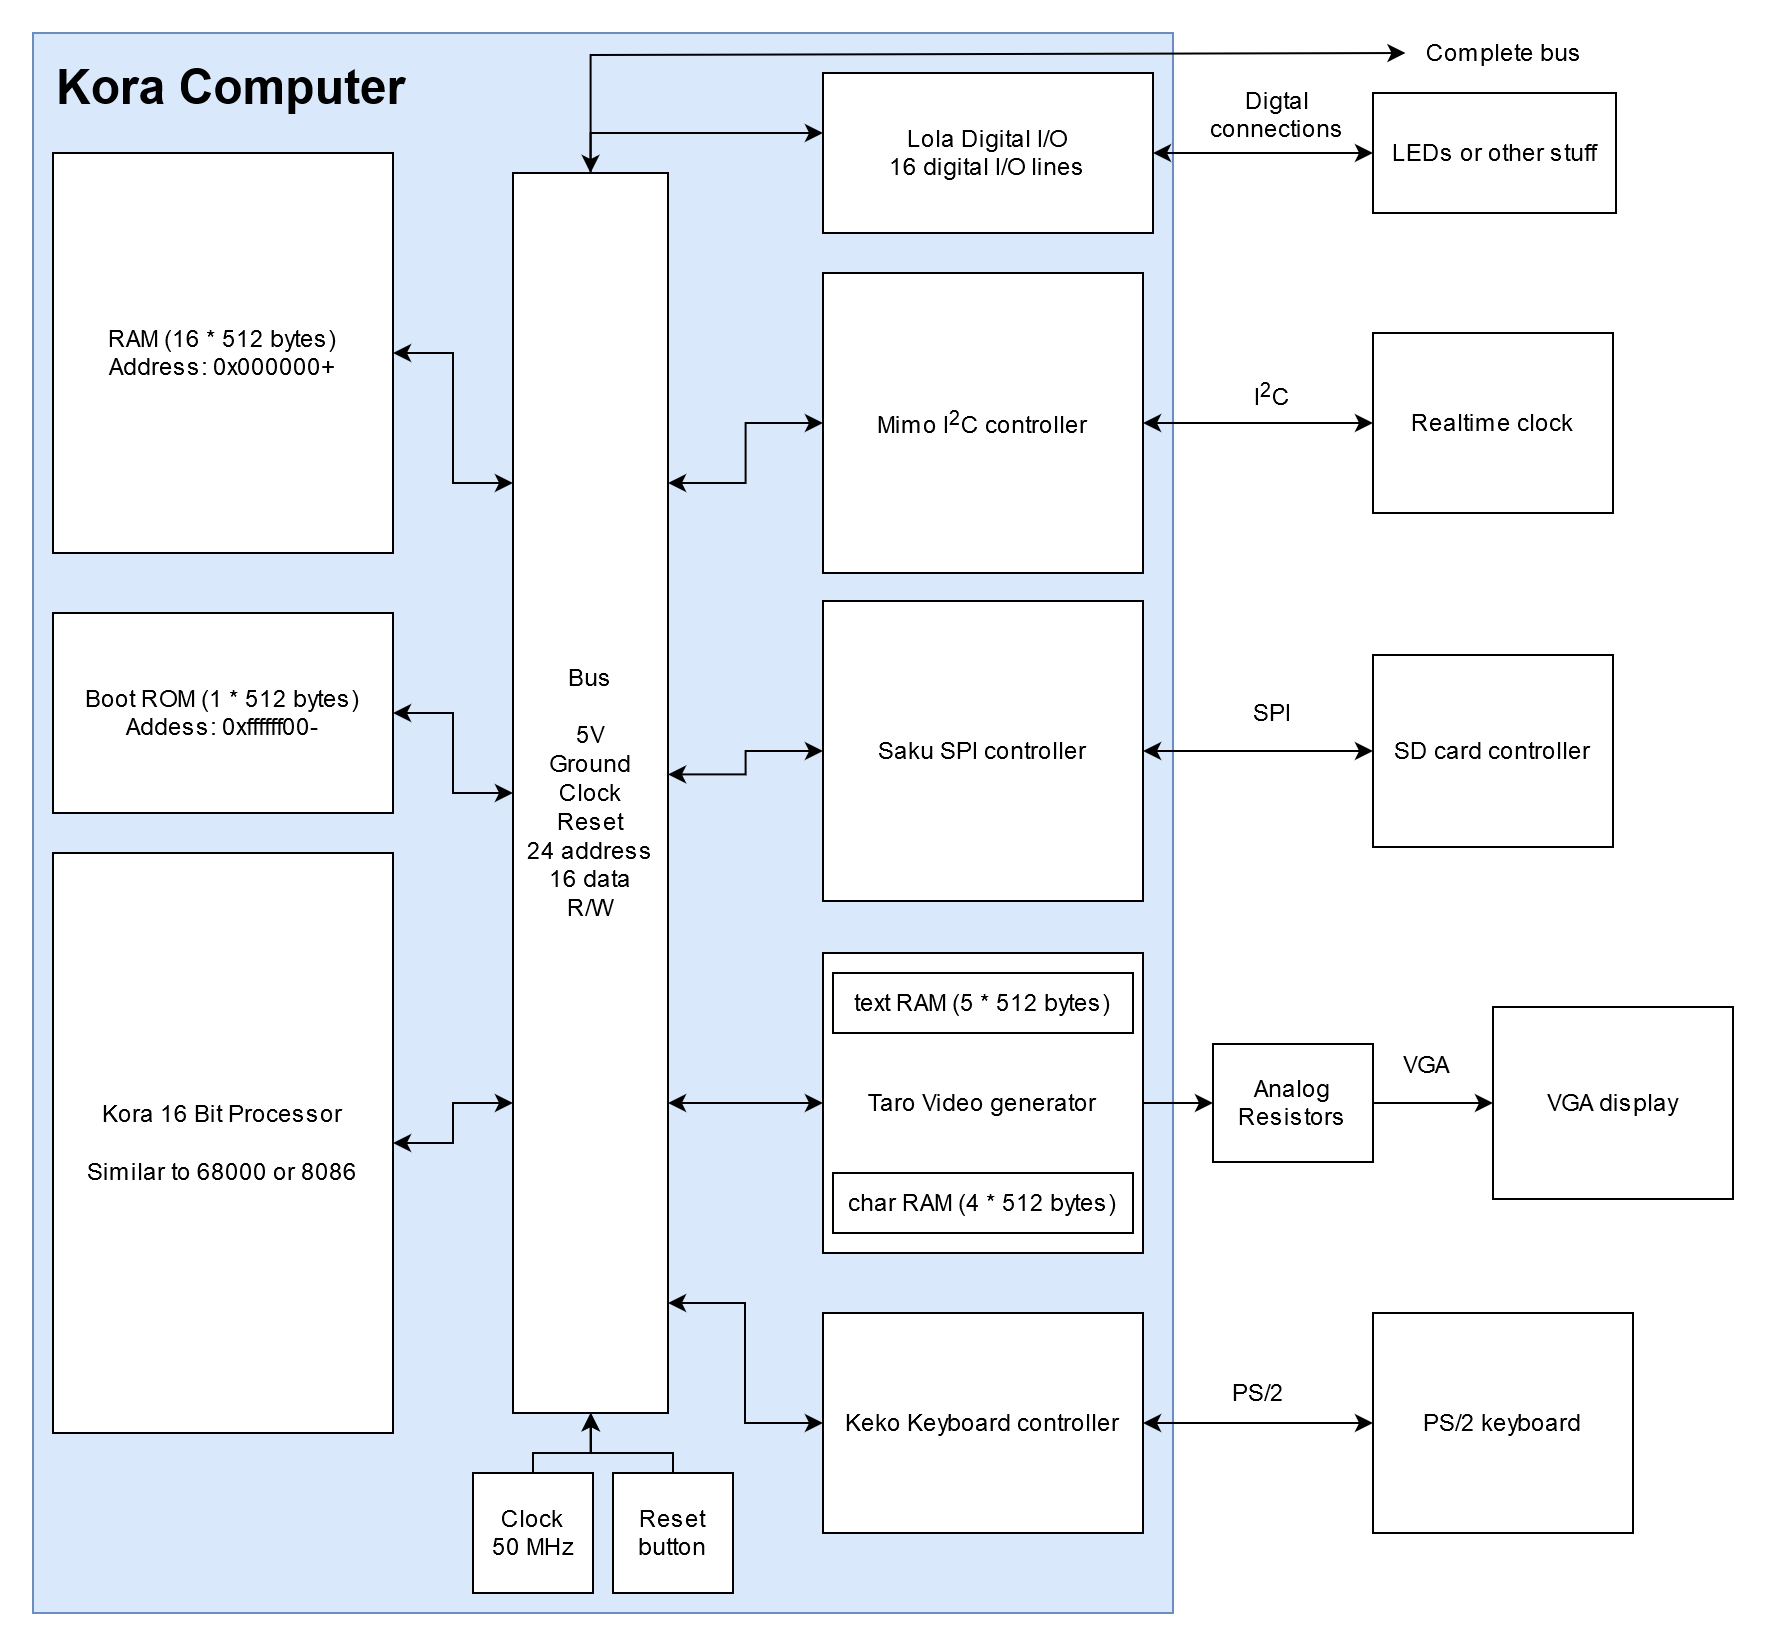
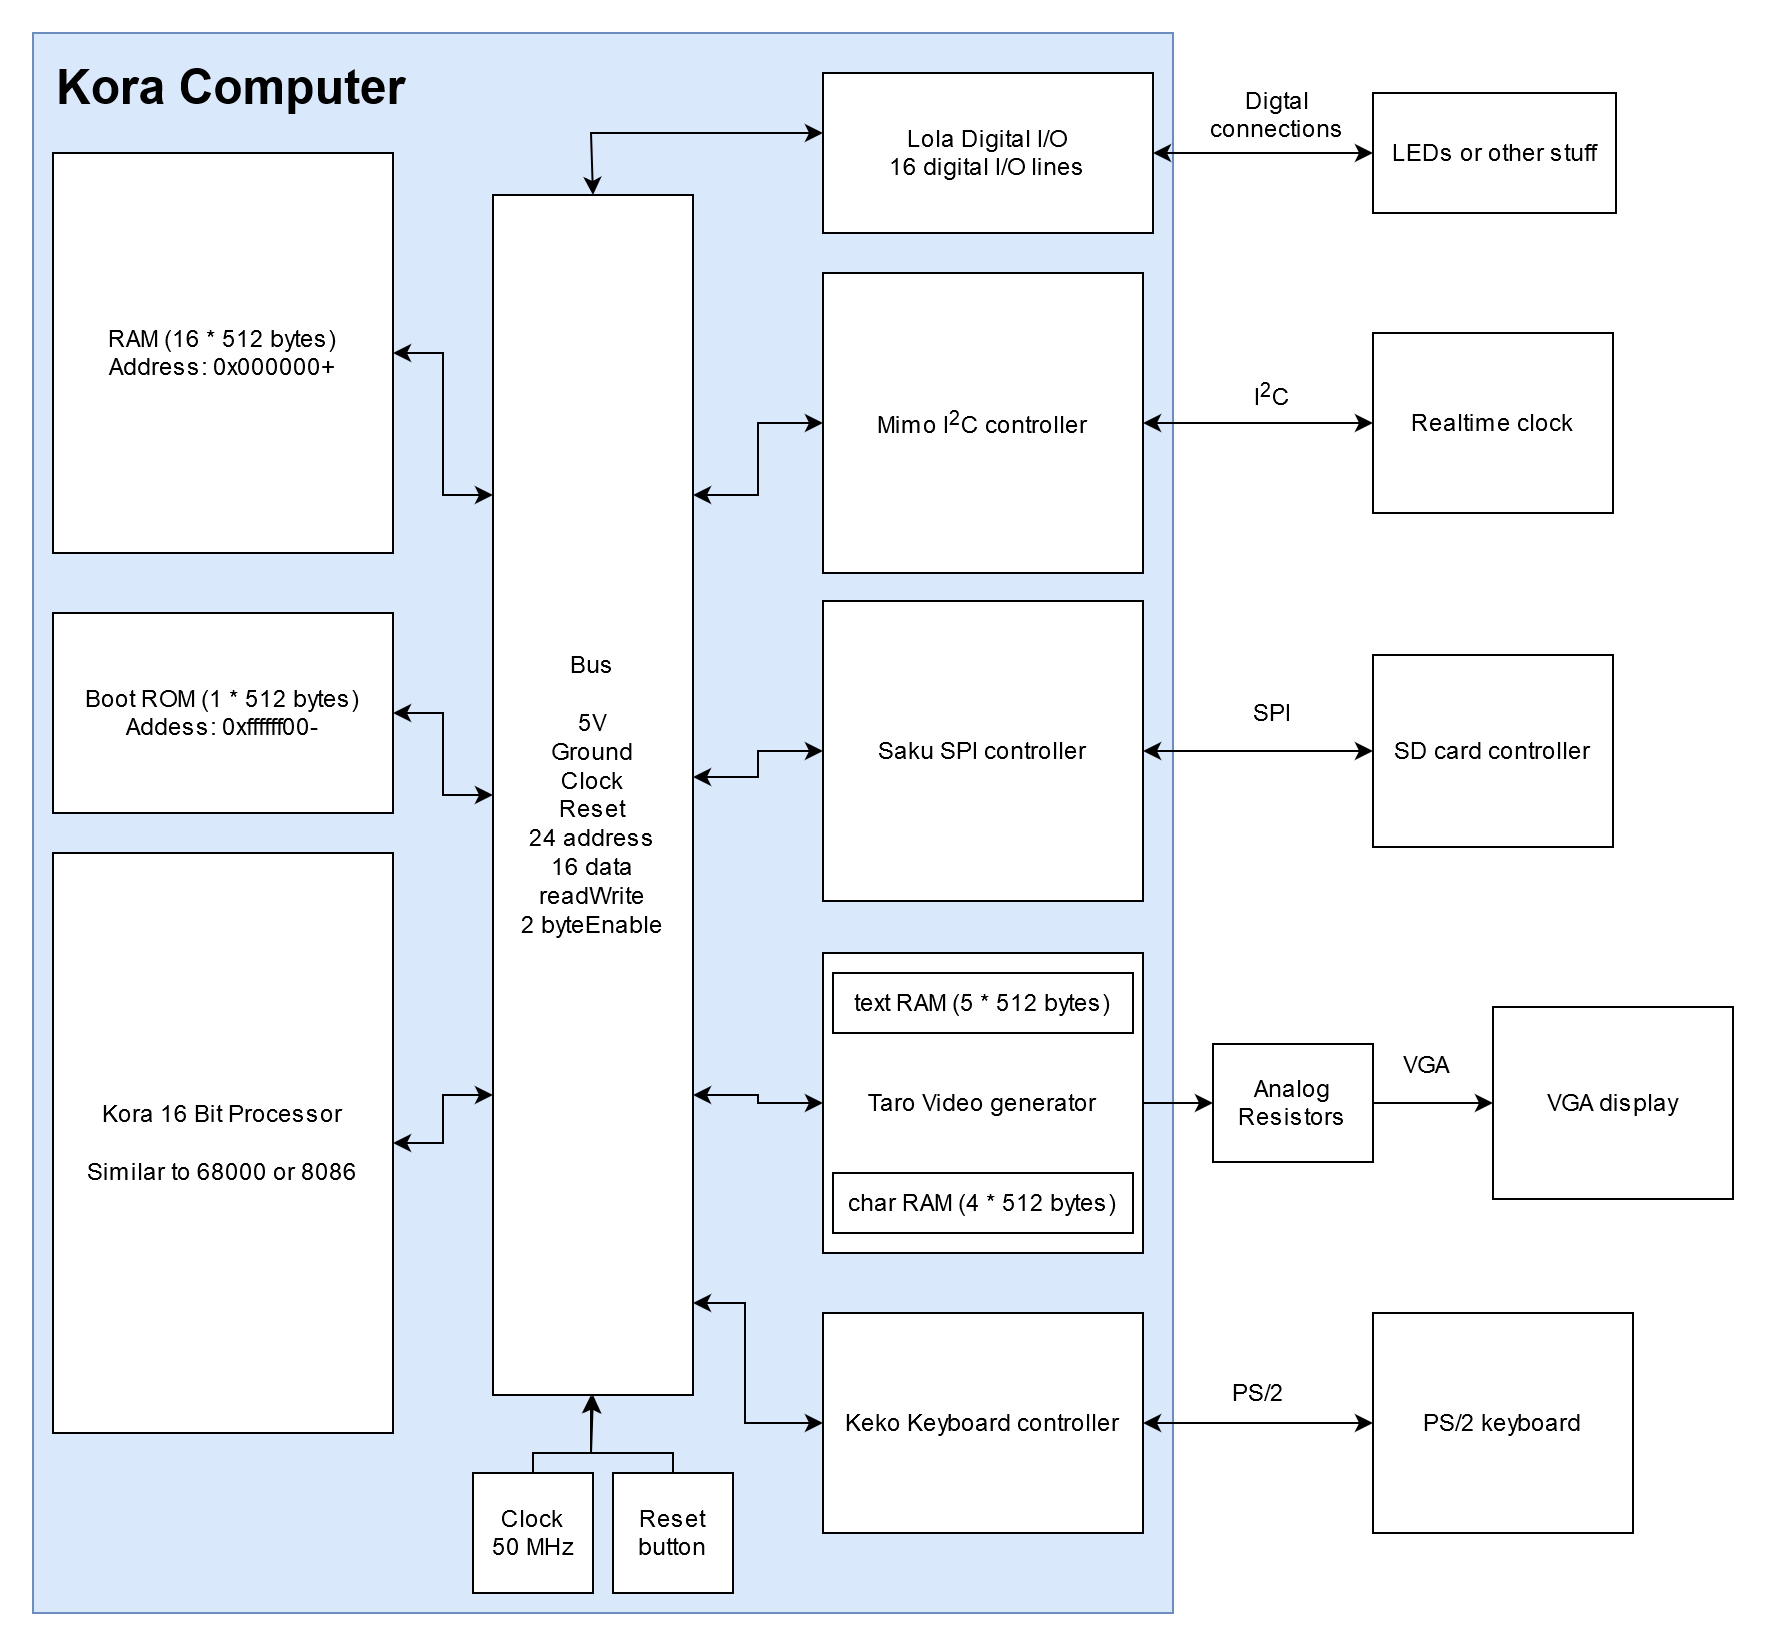
Add the byte enable lines to the computer design diagram

Changed region(s): [[0.2492, 0.093, 0.436, 0.8676]]

diff --git a/README.md b/README.md
@@ -50,7 +50,7 @@ The Kora processor has an efficient but may be difficult instruction pipeline de
 ![Kora instruction pipeline](docs/instruction-pipeline.png)
 
 ## Instruction encoding
-Like the Neva processor, I have kept the instruction encoding quite simple, the mode value determines how the instruction is formed:
+The ultimate goal is to create an efficient instruction pipeline so that no clock cycles are wasted:
 
 ![Kora instruction encoding](docs/instruction-encoding.png)
 
@@ -147,7 +147,7 @@ Unlike the Neva processor every instructions is conditional, this can benefit so
 <tr><td>14</td><td><code>-ng</code></td><td>Not greater</td><td><code>-le</code> Lesser or equal (signed)</td><td><code>!zero || sign != overflow</code></td></tr>
 <tr><td colspan="5"></td></tr>
 
-<tr><td>15</td><td><code>-</code></td><td><i>Reserved</i></td><td>-</td><td>-</td></tr>
+<tr><td>15</td><td>-</td><td><i>Reserved</i></td><td>-</td><td>-</td></tr>
 </table>
 
 ## Kora (re)starts jump address
